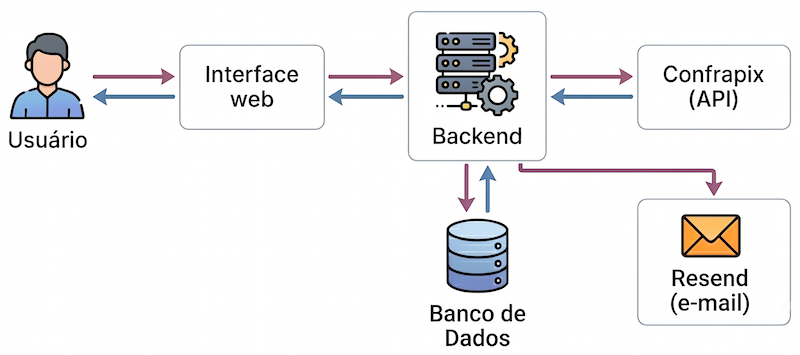
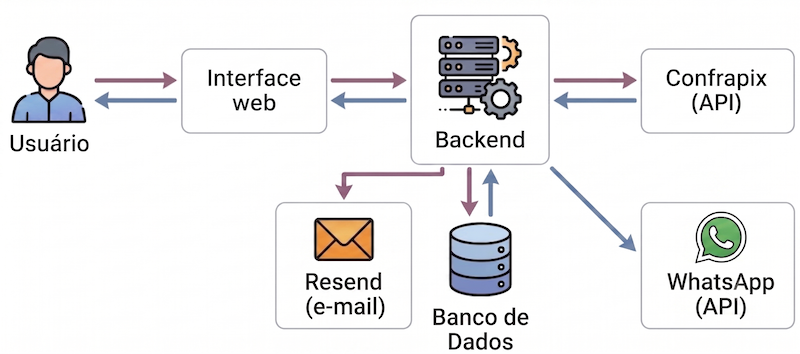
feat: Atualiza a apresentação do kofrinho incluindo whatsapp

Changed region(s): [[0.3438, 0.0311, 1.0, 0.9322], [0.0, 0.0932, 0.4062, 0.435], [0.3438, 0.7768, 0.6562, 0.9944]]

diff --git a/apresentacao/kofrinho.md b/apresentacao/kofrinho.md
@@ -56,7 +56,7 @@ solicitações e administração destes pagamentos.
 
 # Solução
 
-**Kofrinho**: um serviço web que envia solicitações de pagamentos recorrentes por e-mail e administra os pagamentos (não) realizados.
+**Kofrinho**: um serviço web que envia solicitações de pagamentos recorrentes por e-mail e WhatsApp e administra os pagamentos (não) realizados.
 
 ---
 
@@ -72,8 +72,9 @@ solicitações e administração destes pagamentos.
 
 # Gateways
 
-- **ConfraPix** para para criação (links) para pagamentos via pix;
-- **Resend** para o envio dos e-mails.
+- **ConfraPix** para a criação (links) de pagamentos via pix;
+- **Resend** para o envio dos e-mails;
+- **WhatsApp** para o envio de mensagens.
 
 ---
 
@@ -85,17 +86,19 @@ solicitações e administração destes pagamentos.
 
 # Desafios Encontrados
 
-- A IA (Claude Code) utilizada não lida muito bem com a criação/modificação de HTML/CSS;
 - Os testes precisaram ser feitos à mão, dificultando a criação de testes automatizados;
 - Limitações na API da ConfraPag
   - Não permite a criação de novas contas totalmente via API;
   - Não permite a criação de "carteiras" virtuais em uma conta;
+- Limitação na API do WhatsApp
+  - Bem burocrática e limitante
+  - Não permite de maneira fácil a criação de testes automatizados
 
 ---
 
 # Próximos Passos
 
-- Fazer o Kofrinho enviar solicitações pelo WhatsApp e poder administrar o (não) pagamento também pelo WhatsApp.
+- Fazer uma administração 100% via troca de mensagens no WhatsApp
 
 ---
 